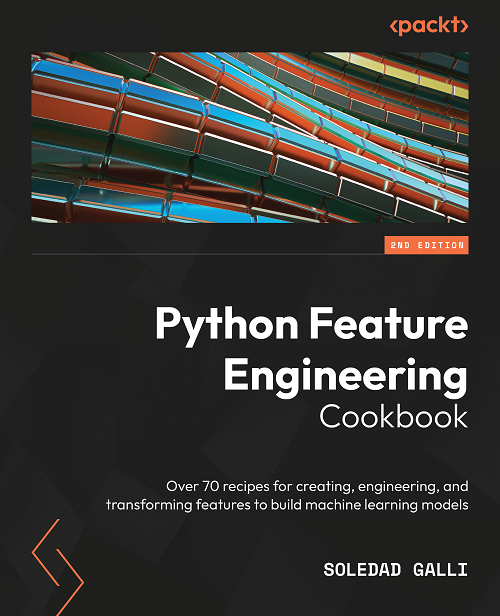
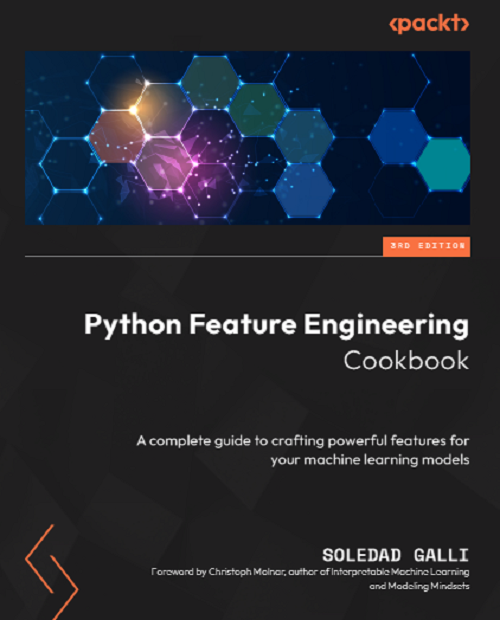
update link to 3rd edition, plus tyding up (#792)

diff --git a/docs/resources/blogs.rst b/docs/resources/blogs.rst
@@ -27,8 +27,17 @@ Feature selection
 - `Feature Selection for Machine Learning: A comprehensive Overview <https://www.blog.trainindata.com/feature-selection-for-machine-learning/>`_.
 
 
+YouTube
+-------
+
+Playlists
+~~~~~~~~~
+
+- `One minute to Feature-engine <https://www.youtube.com/watch?v=nisuJQTyDSA&list=PL_7uaHXkQmKVXh06fCWRxdQRZsl3wva5k>`_
+- `Feature-engine <https://www.youtube.com/watch?v=maRloknVxVg&list=PL_7uaHXkQmKVlqlvgQJuaWEKjagHbERtp>`_
+
 Videos
-------
+~~~~~~
 
 - `Streamlining Feature Engineering Pipes with Feature-engine <https://www.youtube.com/watch?v=0V3_uXX30Ko>`_, Data Science Festival, 2020.
 - `Optimising Feature Engineering Pipelines with Feature-engine <https://www.youtube.com/watch?v=qT-3KUaFYmk/>`_, Pydata Cambridge 2020, from minute 51:43.
@@ -43,9 +52,7 @@ Podcasts
 En Español
 ----------
 
-Empezamos una nueva website con blogs en español. Chequeala:
-
-- `Entrena en Datos <https://www.es.trainindata.com/>`_.
+- `Curso gratis de ingenieria de variables <https://www.youtube.com/watch?v=fmAUVceuQu4&list=PL_7uaHXkQmKU6JyThyqyUUZdCYqJJ9SeO>`_.
 
 Ademas, te pueden interesar:
 

diff --git a/docs/index.rst b/docs/index.rst
@@ -127,7 +127,7 @@ Feature-engine features in the following tutorials
 - `Feature Engineering for Machine Learning <https://www.trainindata.com/p/feature-engineering-for-machine-learning>`_, Online Course.
 - `Feature Selection for Machine Learning <https://www.trainindata.com/p/feature-selection-for-machine-learning>`_, Online Course.
 - `Feature Engineering for Time Series Forecasting <https://www.trainindata.com/p/feature-engineering-for-forecasting>`_, Online Course.
-- `Python Feature Engineering Cookbook <https://packt.link/0ewSo>`_, book.
+- `Python Feature Engineering Cookbook <https://www.packtpub.com/en-us/product/python-feature-engineering-cookbook-9781835883587>`_, book.
 - `Feature Selection in Machine Learning with Python <https://leanpub.com/feature-selection-in-machine-learning>`_, book.
 
 More learning resources in :ref:`**Learning Resources** <learning_resources>`.

diff --git a/README.md b/README.md
@@ -28,7 +28,7 @@ transforming parameters from the data and then transform it.
 
 * [Forecasting with Machine Learning, Online Course](https://www.trainindata.com/p/forecasting-with-machine-learning)
 
-* [Python Feature Engineering Cookbook](https://packt.link/0ewSo)
+* [Python Feature Engineering Cookbook](https://www.packtpub.com/en-us/product/python-feature-engineering-cookbook-9781835883587)
 
 * [Feature Selection in Machine Learning Book](https://leanpub.com/feature-selection-in-machine-learning)
 

diff --git a/docs/resources/courses.rst b/docs/resources/courses.rst
@@ -44,13 +44,6 @@ selection in general in the following online courses:
 
    Interpreting Machine Learning Models
 
-.. figure::  ../images/dmlm.png
-   :width: 300
-   :figclass: align-center
-   :align: right
-   :target: https://www.udemy.com/course/deployment-of-machine-learning-models/?referralCode=D4FE5EA129FFD203CFF4
-
-   Deployment of Machine Learning Models
 
 |
 |

diff --git a/docs/user_guide/pipeline/make_pipeline.rst b/docs/user_guide/pipeline/make_pipeline.rst
@@ -297,7 +297,7 @@ To learn more about direct forecasting and how to create features, check out our
    :width: 200
    :figclass: align-center
    :align: left
-   :target: https://packt.link/0ewSo
+   :target: https://www.packtpub.com/en-us/product/python-feature-engineering-cookbook-9781835883587
 
    Python Feature Engineering Cookbook
 

diff --git a/docs/resources/books.rst b/docs/resources/books.rst
@@ -8,7 +8,7 @@ in the following books:
    :width: 200
    :figclass: align-center
    :align: left
-   :target: https://packt.link/0ewSo
+   :target: https://www.packtpub.com/en-us/product/python-feature-engineering-cookbook-9781835883587
 
    Python Feature Engineering Cookbook
 

diff --git a/docs/user_guide/creation/DecisionTreeFeatures.rst b/docs/user_guide/creation/DecisionTreeFeatures.rst
@@ -514,7 +514,7 @@ Or read our book:
    :width: 200
    :figclass: align-center
    :align: left
-   :target: https://packt.link/0ewSo
+   :target: https://www.packtpub.com/en-us/product/python-feature-engineering-cookbook-9781835883587
 
    Python Feature Engineering Cookbook
 

diff --git a/docs/user_guide/creation/MathFeatures.rst b/docs/user_guide/creation/MathFeatures.rst
@@ -257,7 +257,7 @@ Or read our book:
    :width: 200
    :figclass: align-center
    :align: left
-   :target: https://packt.link/0ewSo
+   :target: https://www.packtpub.com/en-us/product/python-feature-engineering-cookbook-9781835883587
 
    Python Feature Engineering Cookbook
 

diff --git a/docs/user_guide/creation/RelativeFeatures.rst b/docs/user_guide/creation/RelativeFeatures.rst
@@ -172,7 +172,7 @@ Or read our book:
    :width: 200
    :figclass: align-center
    :align: left
-   :target: https://packt.link/0ewSo
+   :target: https://www.packtpub.com/en-us/product/python-feature-engineering-cookbook-9781835883587
 
    Python Feature Engineering Cookbook
 

diff --git a/docs/user_guide/creation/index.rst b/docs/user_guide/creation/index.rst
@@ -279,7 +279,7 @@ Or read our book:
    :width: 200
    :figclass: align-center
    :align: left
-   :target: https://packt.link/0ewSo
+   :target: https://www.packtpub.com/en-us/product/python-feature-engineering-cookbook-9781835883587
 
    Python Feature Engineering Cookbook
 

diff --git a/docs/user_guide/datetime/DatetimeFeatures.rst b/docs/user_guide/datetime/DatetimeFeatures.rst
@@ -829,7 +829,7 @@ Or read our book:
    :width: 200
    :figclass: align-center
    :align: left
-   :target: https://packt.link/0ewSo
+   :target: https://www.packtpub.com/en-us/product/python-feature-engineering-cookbook-9781835883587
 
    Python Feature Engineering Cookbook
 

diff --git a/docs/user_guide/datetime/DatetimeSubtraction.rst b/docs/user_guide/datetime/DatetimeSubtraction.rst
@@ -489,7 +489,7 @@ Or read our book:
    :width: 200
    :figclass: align-center
    :align: left
-   :target: https://packt.link/0ewSo
+   :target: https://www.packtpub.com/en-us/product/python-feature-engineering-cookbook-9781835883587
 
    Python Feature Engineering Cookbook
 
